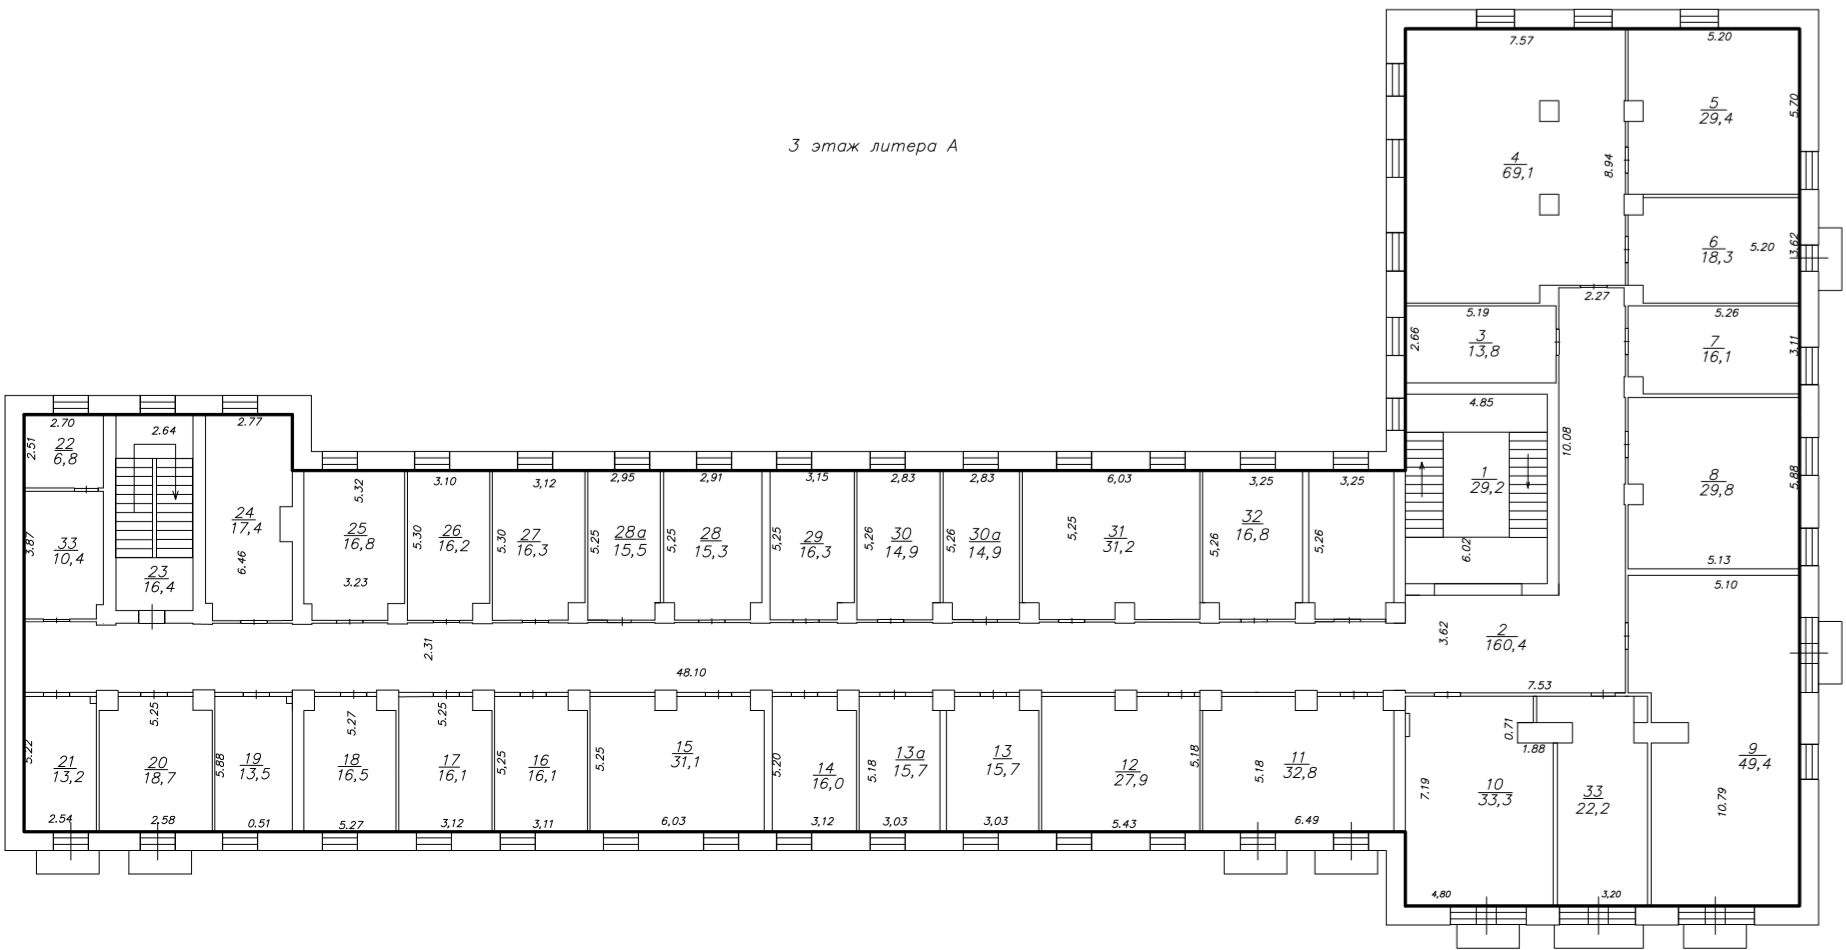
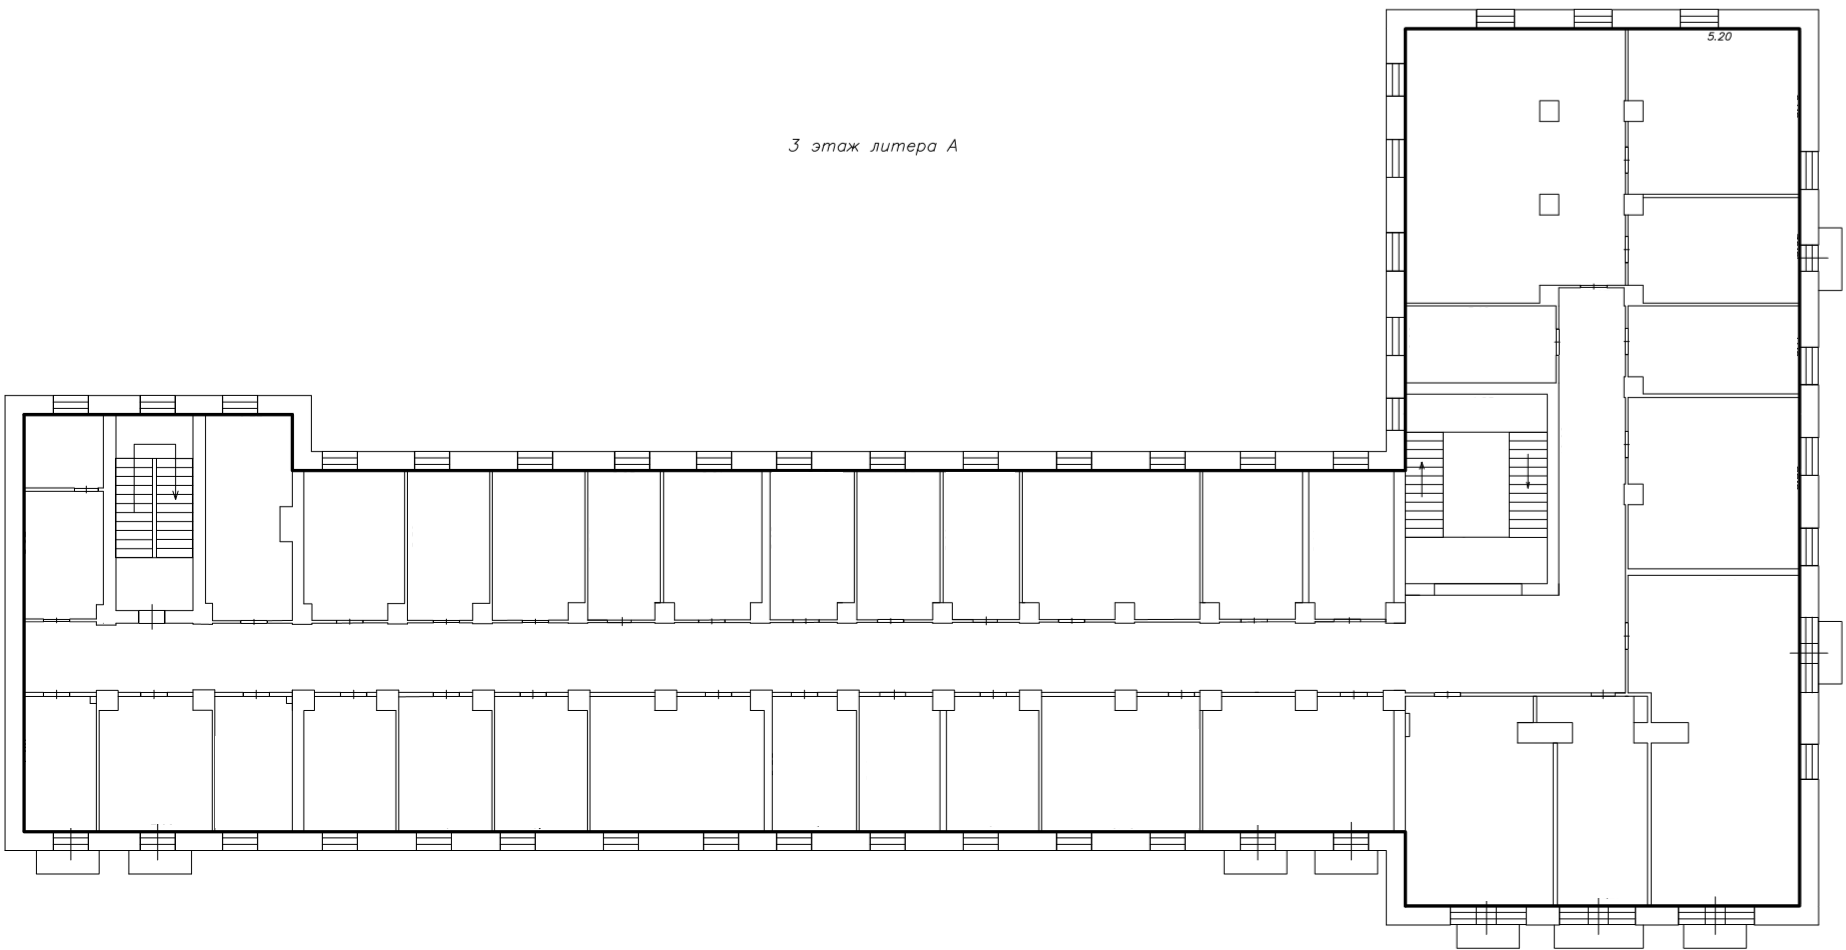
New Map images (clean)

diff --git a/js/main.js b/js/main.js
@@ -152,7 +152,7 @@ function onFloorChanged() {
     $('#ddlRoom option').hide();
     $('#ddlRoom option[data-floor="' + floor.Id + '"]').show();
     
-    $("#imgPlan").attr('src', './img/rooms/' + floor.Img + '?v=0.4');
+    $("#imgPlan").attr('src', './img/rooms/' + floor.Img + '?v=0.5');
     var imgUrl = './img/rooms/' + floor.Img;
     onMapLoaded();
 }
